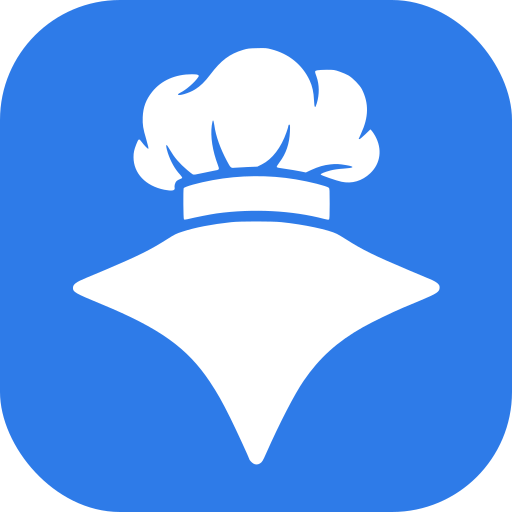
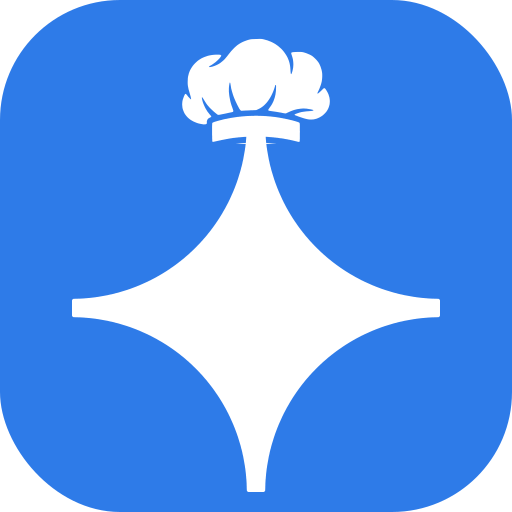
Mark v2 (spark wearing the hat), client name on Me and Home, Home camera goes straight to the group photo, biscuits in the demo seed

diff --git a/src/components/Mark.tsx b/src/components/Mark.tsx
@@ -1,7 +1,7 @@
 export const APP_NAME = "Chef Mealan";
 export const CHEF_NAME = "Mealan";
 export const COACH_NAME = "Milan";
-const D = "M31.66 57.94C31.45 57.81 31.16 57.49 31.16 57.39C31.16 57.29 29.50 53.68 28.80 52.27C27.79 50.23 27.17 49.13 26.25 47.75C23.43 43.50 19.98 41.03 12.63 38.00C9.39 36.66 9.12 36.50 9.12 36.00C9.12 35.54 9.49 35.26 10.83 34.71C11.16 34.57 12.24 34.12 13.24 33.70C17.37 31.94 18.75 31.26 20.94 29.87C21.81 29.31 22.05 29.19 22.82 28.95C24.37 28.44 26.42 28.04 28.92 27.77C29.99 27.65 34.05 27.65 35.18 27.77C37.99 28.06 41.10 28.72 42.12 29.24C42.30 29.33 42.82 29.64 43.26 29.92C45.31 31.23 46.73 31.93 51.20 33.82C52.51 34.37 53.77 34.90 54.01 35.00C54.25 35.10 54.55 35.29 54.70 35.42C54.91 35.63 54.95 35.71 54.95 35.94C54.95 36.47 54.63 36.69 52.57 37.55C52.13 37.74 51.18 38.13 50.46 38.43C49.00 39.05 46.62 40.20 45.40 40.88C42.18 42.69 39.92 44.73 37.95 47.61C36.83 49.24 34.93 52.92 33.28 56.65C32.85 57.63 32.76 57.77 32.48 57.94C32.21 58.10 31.92 58.10 31.66 57.94ZM22.99 27.42C22.91 27.34 22.89 23.72 22.96 23.53C23.03 23.34 24.82 22.84 26.57 22.52C29.95 21.89 33.64 21.86 36.96 22.42C38.76 22.72 40.84 23.25 41.10 23.47C41.20 23.57 41.21 23.75 41.21 25.47C41.21 26.93 41.19 27.38 41.13 27.43C41.07 27.48 40.90 27.47 40.54 27.37C36.53 26.31 31.65 26.06 27.07 26.68C26.36 26.78 24.32 27.18 23.44 27.40C23.18 27.46 23.04 27.47 22.99 27.42ZM20.55 23.72C18.19 23.25 16.69 21.66 16.69 19.64C16.69 19.06 16.77 18.72 17.03 18.05C17.33 17.30 17.37 17.28 17.72 17.76C17.97 18.10 18.44 18.60 18.52 18.60C18.60 18.60 18.55 18.35 18.28 17.41C17.88 16.07 17.81 15.61 17.84 14.65C17.90 13.38 18.23 12.48 19.02 11.48C20.16 10.05 21.91 9.28 24.02 9.28C24.44 9.28 24.68 9.31 24.76 9.38C24.88 9.46 24.88 9.48 24.77 9.65C24.37 10.27 23.25 11.24 22.57 11.57C22.39 11.65 22.25 11.76 22.25 11.81C22.25 12.05 23.65 11.64 24.36 11.19C25.07 10.75 25.59 10.24 26.28 9.33C27.64 7.53 28.69 6.74 30.40 6.23C30.92 6.07 31.14 6.04 32.13 6.02C33.18 5.99 33.33 6.00 33.91 6.16C36.11 6.72 37.80 8.10 38.71 10.06C39.04 10.77 39.21 11.53 39.25 12.52C39.30 13.53 39.39 13.63 39.60 12.91C39.94 11.79 39.92 10.59 39.57 9.59C39.32 8.90 39.32 8.87 39.64 8.79C39.79 8.76 40.33 8.72 40.85 8.72C41.75 8.72 41.81 8.73 42.47 8.96C42.84 9.09 43.33 9.30 43.54 9.42C44.12 9.76 44.97 10.64 45.24 11.16C46.12 12.92 46.09 14.65 45.13 16.70C44.97 17.05 44.83 17.35 44.83 17.37C44.83 17.38 44.88 17.39 44.94 17.39C44.99 17.39 45.32 17.12 45.67 16.78L46.30 16.17L46.48 16.36C46.57 16.47 46.76 16.74 46.89 16.98C47.81 18.63 47.58 20.43 46.28 21.66C45.27 22.62 43.99 23.00 42.69 22.72C42.07 22.59 40.12 21.92 40.09 21.82C40.05 21.72 40.53 21.52 41.30 21.31C41.73 21.20 42.25 21.12 42.92 21.08C44.28 20.99 44.42 20.84 43.32 20.65C42.30 20.48 42.04 20.47 41.30 20.55C40.46 20.64 39.81 20.83 38.89 21.25L38.23 21.56L37.49 21.41C37.09 21.33 36.28 21.19 35.69 21.11C34.84 21.00 34.61 20.95 34.59 20.86C34.58 20.81 34.74 20.54 34.95 20.27C35.76 19.20 36.18 17.96 36.24 16.47C36.27 15.68 36.26 15.58 36.16 15.58C36.10 15.58 36.05 15.64 36.05 15.71C36.05 15.78 35.95 16.15 35.81 16.53C35.15 18.44 34.02 19.91 32.73 20.55L32.17 20.83L30.91 20.88C30.22 20.91 29.50 20.95 29.30 20.97C28.87 21.02 28.82 20.98 28.37 20.13C27.54 18.58 26.97 16.99 26.80 15.70C26.74 15.30 26.68 15.05 26.63 15.05C26.59 15.05 26.52 15.30 26.47 15.69C26.29 17.09 26.56 18.85 27.24 20.64C27.45 21.20 27.44 21.23 26.74 21.34C26.46 21.39 25.79 21.53 25.24 21.65C24.45 21.83 24.22 21.86 24.10 21.80C24.02 21.76 23.72 21.52 23.42 21.27C22.43 20.43 21.79 19.69 21.24 18.73C21.05 18.40 20.87 18.13 20.83 18.13C20.72 18.13 20.78 18.46 20.98 19.12C21.33 20.18 21.86 21.14 22.51 21.83C22.67 22.00 22.79 22.19 22.77 22.24C22.75 22.28 22.61 22.36 22.47 22.40C22.33 22.45 22.14 22.56 22.06 22.64C21.88 22.83 21.77 23.25 21.83 23.47C21.91 23.83 21.50 23.91 20.55 23.72Z";
+const D = "M25.86 15.38 L25.85 15.20 L25.91 14.98 L26.03 14.82 L26.22 14.71 L26.42 14.61 L26.35 14.46 L26.19 14.28 L26.07 14.12 L25.94 13.96 L25.83 13.78 L25.72 13.60 L25.62 13.41 L25.53 13.21 L25.44 13.00 L25.36 12.79 L25.27 12.47 L25.23 12.23 L25.25 12.14 L25.32 12.21 L25.47 12.44 L25.59 12.64 L25.70 12.81 L25.81 12.98 L25.93 13.14 L26.07 13.30 L26.20 13.45 L26.35 13.60 L26.52 13.76 L26.69 13.92 L26.88 14.08 L27.09 14.25 L27.21 14.34 L27.30 14.36 L27.47 14.34 L27.76 14.28 L28.06 14.22 L28.30 14.17 L28.52 14.12 L28.71 14.08 L28.92 14.04 L29.13 13.98 L29.17 13.86 L29.10 13.63 L29.02 13.40 L28.94 13.18 L28.87 12.95 L28.81 12.73 L28.76 12.51 L28.72 12.29 L28.68 12.08 L28.65 11.87 L28.63 11.66 L28.61 11.46 L28.61 11.26 L28.61 11.07 L28.62 10.88 L28.64 10.70 L28.69 10.41 L28.74 10.29 L28.79 10.40 L28.84 10.69 L28.87 10.87 L28.90 11.06 L28.95 11.25 L29.00 11.44 L29.06 11.64 L29.12 11.84 L29.19 12.04 L29.27 12.25 L29.36 12.46 L29.45 12.67 L29.55 12.88 L29.65 13.09 L29.76 13.30 L29.92 13.60 L30.05 13.78 L30.17 13.85 L30.33 13.84 L30.45 13.83 L30.64 13.82 L30.88 13.81 L31.15 13.80 L31.40 13.78 L31.61 13.78 L31.82 13.77 L32.04 13.76 L32.23 13.67 L32.42 13.58 L32.58 13.49 L32.73 13.39 L32.88 13.28 L33.03 13.15 L33.17 13.01 L33.31 12.86 L33.44 12.70 L33.57 12.52 L33.69 12.34 L33.81 12.14 L33.92 11.94 L34.02 11.73 L34.12 11.51 L34.21 11.28 L34.30 11.02 L34.37 10.79 L34.40 10.65 L34.49 10.62 L34.51 10.76 L34.50 11.15 L34.49 11.38 L34.46 11.60 L34.43 11.82 L34.38 12.03 L34.33 12.23 L34.26 12.43 L34.19 12.63 L34.10 12.82 L34.01 13.00 L33.90 13.18 L33.78 13.35 L33.63 13.56 L33.52 13.74 L33.54 13.80 L33.66 13.85 L33.92 13.89 L34.26 13.94 L34.48 13.97 L34.72 14.01 L34.94 14.05 L35.14 14.08 L35.31 14.12 L35.52 14.16 L35.73 14.18 L35.92 14.09 L36.12 14.00 L36.34 13.90 L36.55 13.82 L36.75 13.75 L36.94 13.70 L37.14 13.65 L37.34 13.62 L37.55 13.59 L37.76 13.57 L37.94 13.56 L38.11 13.57 L38.31 13.58 L38.55 13.62 L38.86 13.67 L39.10 13.73 L39.19 13.78 L39.13 13.83 L38.93 13.87 L38.58 13.90 L38.30 13.92 L38.07 13.95 L37.86 13.98 L37.67 14.01 L37.45 14.07 L37.15 14.17 L36.93 14.25 L36.82 14.32 L36.83 14.37 L36.93 14.42 L37.12 14.49 L37.35 14.58 L37.62 14.67 L37.89 14.76 L38.13 14.83 L38.33 14.88 L38.53 14.92 L38.74 14.94 L38.95 14.94 L39.16 14.93 L39.36 14.89 L39.56 14.84 L39.76 14.76 L39.95 14.67 L40.14 14.56 L40.32 14.44 L40.49 14.29 L40.65 14.13 L40.79 13.97 L40.91 13.79 L41.01 13.61 L41.09 13.42 L41.15 13.23 L41.20 13.03 L41.22 12.82 L41.23 12.62 L41.21 12.41 L41.18 12.20 L41.12 11.99 L41.05 11.77 L40.95 11.56 L40.84 11.36 L40.71 11.16 L40.60 11.02 L40.44 11.05 L40.29 11.20 L40.13 11.36 L39.91 11.56 L39.76 11.68 L39.66 11.68 L39.72 11.53 L39.85 11.26 L39.95 11.03 L40.03 10.81 L40.11 10.59 L40.17 10.38 L40.22 10.17 L40.25 9.96 L40.27 9.75 L40.28 9.55 L40.28 9.35 L40.27 9.15 L40.24 8.95 L40.20 8.75 L40.14 8.56 L40.08 8.36 L40.00 8.17 L39.91 7.97 L39.82 7.82 L39.70 7.66 L39.55 7.48 L39.38 7.31 L39.21 7.15 L39.04 7.01 L38.88 6.91 L38.72 6.83 L38.51 6.74 L38.29 6.65 L38.07 6.58 L37.90 6.53 L37.73 6.50 L37.52 6.49 L37.23 6.49 L36.96 6.50 L36.73 6.51 L36.57 6.53 L36.43 6.57 L36.40 6.69 L36.50 7.00 L36.56 7.20 L36.61 7.40 L36.64 7.61 L36.66 7.82 L36.67 8.03 L36.66 8.25 L36.64 8.47 L36.60 8.68 L36.55 8.90 L36.47 9.15 L36.40 9.28 L36.35 9.22 L36.32 8.96 L36.30 8.64 L36.28 8.40 L36.25 8.18 L36.21 7.97 L36.16 7.77 L36.10 7.58 L36.03 7.40 L35.95 7.21 L35.85 7.02 L35.74 6.84 L35.62 6.66 L35.50 6.49 L35.37 6.33 L35.23 6.17 L35.08 6.03 L34.92 5.89 L34.76 5.75 L34.59 5.63 L34.42 5.51 L34.23 5.40 L34.04 5.30 L33.85 5.21 L33.64 5.13 L33.44 5.05 L33.22 4.99 L33.01 4.93 L32.85 4.89 L32.69 4.87 L32.49 4.86 L32.23 4.87 L31.89 4.88 L31.62 4.89 L31.42 4.90 L31.25 4.93 L31.09 4.97 L30.89 5.03 L30.70 5.10 L30.51 5.17 L30.33 5.25 L30.15 5.34 L29.99 5.43 L29.82 5.54 L29.66 5.65 L29.51 5.78 L29.35 5.92 L29.20 6.07 L29.05 6.23 L28.89 6.40 L28.73 6.60 L28.57 6.80 L28.41 7.01 L28.25 7.20 L28.11 7.37 L27.96 7.52 L27.81 7.65 L27.66 7.77 L27.51 7.89 L27.33 8.00 L27.10 8.12 L26.84 8.23 L26.58 8.32 L26.36 8.37 L26.19 8.39 L26.11 8.36 L26.21 8.25 L26.40 8.15 L26.57 8.04 L26.75 7.91 L26.94 7.77 L27.12 7.61 L27.29 7.45 L27.44 7.29 L27.56 7.14 L27.67 6.96 L27.57 6.86 L27.37 6.83 L27.09 6.83 L26.85 6.84 L26.62 6.86 L26.40 6.89 L26.18 6.93 L25.97 6.98 L25.77 7.05 L25.57 7.12 L25.38 7.20 L25.19 7.29 L25.01 7.40 L24.84 7.51 L24.68 7.63 L24.53 7.77 L24.38 7.91 L24.24 8.06 L24.10 8.23 L23.97 8.42 L23.86 8.60 L23.76 8.78 L23.68 8.97 L23.61 9.16 L23.56 9.36 L23.51 9.56 L23.48 9.77 L23.47 10.00 L23.46 10.22 L23.46 10.41 L23.47 10.59 L23.49 10.76 L23.53 10.95 L23.57 11.16 L23.64 11.40 L23.72 11.68 L23.83 12.07 L23.88 12.30 L23.89 12.41 L23.84 12.41 L23.71 12.28 L23.53 12.09 L23.37 11.88 L23.23 11.73 L23.13 11.76 L23.01 12.00 L22.91 12.27 L22.84 12.48 L22.80 12.67 L22.78 12.87 L22.77 13.08 L22.79 13.29 L22.81 13.49 L22.86 13.68 L22.93 13.87 L23.01 14.06 L23.10 14.23 L23.22 14.40 L23.34 14.55 L23.48 14.70 L23.64 14.84 L23.81 14.97 L23.99 15.08 L24.19 15.19 L24.40 15.28 L24.62 15.37 L24.85 15.44 L25.09 15.49 L25.44 15.55 L25.68 15.54 L25.82 15.49 L25.86 15.38Z M26.87 17.69 L26.92 17.68 L26.97 17.66 L27.03 17.65 L27.10 17.64 L27.16 17.62 L27.23 17.61 L27.30 17.59 L27.37 17.58 L27.44 17.56 L27.52 17.55 L27.59 17.53 L27.67 17.51 L27.74 17.50 L27.82 17.48 L27.90 17.47 L27.97 17.45 L28.05 17.44 L28.13 17.42 L28.20 17.41 L28.28 17.39 L28.35 17.38 L28.42 17.37 L28.49 17.35 L28.56 17.34 L28.62 17.33 L28.68 17.32 L28.74 17.31 L28.80 17.30 L28.85 17.29 L28.90 17.28 L28.95 17.28 L28.99 17.27 L29.05 17.26 L29.12 17.25 L29.19 17.24 L29.26 17.23 L29.32 17.23 L29.39 17.22 L29.46 17.21 L29.53 17.20 L29.60 17.20 L29.67 17.19 L29.74 17.18 L29.80 17.17 L29.87 17.17 L29.94 17.16 L30.01 17.16 L30.08 17.15 L30.15 17.14 L30.22 17.14 L30.29 17.13 L30.35 17.13 L30.42 17.12 L30.49 17.12 L30.56 17.11 L30.63 17.11 L30.70 17.11 L30.77 17.10 L30.79 17.10 L30.78 17.21 L30.77 17.38 L30.75 17.56 L30.74 17.73 L30.72 17.89 L30.66 17.89 L30.50 17.89 L30.35 17.90 L30.23 17.91 L30.13 17.92 L29.94 17.94 L29.73 17.97 L29.53 17.99 L29.46 18.00 L30.71 18.00 L30.70 18.07 L30.68 18.24 L30.66 18.41 L30.63 18.58 L30.61 18.75 L30.58 18.92 L30.55 19.09 L30.52 19.26 L30.49 19.42 L30.46 19.59 L30.43 19.76 L30.40 19.93 L30.36 20.10 L30.32 20.27 L30.29 20.43 L30.25 20.60 L30.21 20.77 L30.16 20.93 L30.12 21.10 L30.08 21.26 L30.03 21.43 L29.98 21.60 L29.93 21.76 L29.88 21.92 L29.83 22.09 L29.78 22.25 L29.73 22.41 L29.67 22.58 L29.62 22.74 L29.56 22.90 L29.50 23.06 L29.44 23.22 L29.38 23.38 L29.32 23.54 L29.25 23.70 L29.19 23.86 L29.12 24.02 L29.05 24.18 L28.98 24.33 L28.91 24.49 L28.84 24.65 L28.77 24.80 L28.70 24.96 L28.62 25.11 L28.55 25.27 L28.47 25.42 L28.39 25.57 L28.31 25.72 L28.23 25.87 L28.15 26.03 L28.06 26.18 L27.98 26.32 L27.89 26.47 L27.81 26.62 L27.72 26.77 L27.63 26.92 L27.54 27.06 L27.45 27.21 L27.36 27.35 L27.26 27.50 L27.17 27.64 L27.07 27.78 L26.98 27.92 L26.88 28.06 L26.78 28.20 L26.68 28.34 L26.58 28.48 L26.47 28.62 L26.37 28.76 L26.27 28.89 L26.16 29.03 L26.05 29.16 L25.95 29.29 L25.84 29.43 L25.73 29.56 L25.62 29.69 L25.50 29.82 L25.39 29.95 L25.28 30.08 L25.16 30.20 L25.05 30.33 L24.93 30.46 L24.81 30.58 L24.69 30.70 L24.57 30.83 L24.45 30.95 L24.33 31.07 L24.21 31.19 L24.08 31.31 L23.96 31.43 L23.83 31.54 L23.71 31.66 L23.58 31.78 L23.45 31.89 L23.32 32.00 L23.19 32.11 L23.06 32.23 L22.93 32.34 L22.80 32.44 L22.66 32.55 L22.53 32.66 L22.39 32.76 L22.26 32.87 L22.12 32.97 L21.98 33.08 L21.84 33.18 L21.70 33.28 L21.56 33.38 L21.42 33.47 L21.28 33.57 L21.14 33.67 L21.00 33.76 L20.85 33.86 L20.71 33.95 L20.56 34.04 L20.42 34.13 L20.27 34.22 L20.12 34.31 L19.98 34.39 L19.83 34.48 L19.68 34.56 L19.53 34.65 L19.38 34.73 L19.23 34.81 L19.07 34.89 L18.92 34.97 L18.77 35.05 L18.61 35.12 L18.46 35.20 L18.30 35.27 L18.15 35.34 L17.99 35.41 L17.84 35.48 L17.68 35.55 L17.52 35.62 L17.36 35.69 L17.20 35.75 L17.04 35.82 L16.88 35.88 L16.72 35.94 L16.56 36.00 L16.40 36.06 L16.24 36.12 L16.08 36.17 L15.92 36.23 L15.75 36.28 L15.59 36.33 L15.43 36.38 L15.26 36.43 L15.10 36.48 L14.93 36.53 L14.77 36.58 L14.60 36.62 L14.43 36.66 L14.27 36.71 L14.10 36.75 L13.93 36.79 L13.77 36.82 L13.60 36.86 L13.43 36.90 L13.26 36.93 L13.10 36.96 L12.93 36.99 L12.76 37.02 L12.59 37.05 L12.42 37.08 L12.25 37.11 L12.08 37.13 L11.91 37.16 L11.74 37.18 L11.57 37.20 L11.40 37.22 L11.23 37.24 L11.06 37.25 L10.89 37.27 L10.72 37.28 L10.54 37.30 L10.37 37.31 L10.20 37.32 L10.03 37.33 L9.86 37.33 L9.69 37.34 L9.52 37.34 L9.34 37.35 L9.25 37.35 L9.22 37.35 L9.20 37.35 L9.18 37.36 L9.15 37.37 L9.13 37.38 L9.11 37.39 L9.09 37.41 L9.07 37.42 L9.06 37.44 L9.04 37.46 L9.03 37.48 L9.02 37.50 L9.01 37.53 L9.00 37.55 L9.00 37.57 L9.00 37.60 L9.00 39.40 L9.00 39.43 L9.00 39.45 L9.01 39.47 L9.02 39.50 L9.03 39.52 L9.04 39.54 L9.06 39.56 L9.07 39.58 L9.09 39.59 L9.11 39.61 L9.13 39.62 L9.15 39.63 L9.18 39.64 L9.20 39.65 L9.22 39.65 L9.25 39.65 L9.34 39.65 L9.51 39.66 L9.69 39.66 L9.86 39.67 L10.03 39.67 L10.20 39.68 L10.37 39.69 L10.54 39.70 L10.71 39.72 L10.88 39.73 L11.06 39.75 L11.23 39.76 L11.40 39.78 L11.57 39.80 L11.74 39.82 L11.91 39.84 L12.08 39.87 L12.25 39.89 L12.42 39.92 L12.59 39.95 L12.76 39.98 L12.92 40.01 L13.09 40.04 L13.26 40.07 L13.43 40.10 L13.60 40.14 L13.77 40.18 L13.93 40.21 L14.10 40.25 L14.27 40.29 L14.43 40.34 L14.60 40.38 L14.76 40.42 L14.93 40.47 L15.10 40.52 L15.26 40.57 L15.42 40.62 L15.59 40.67 L15.75 40.72 L15.91 40.77 L16.08 40.83 L16.24 40.88 L16.40 40.94 L16.56 41.00 L16.72 41.06 L16.88 41.12 L17.04 41.18 L17.20 41.25 L17.36 41.31 L17.52 41.38 L17.68 41.45 L17.83 41.52 L17.99 41.59 L18.15 41.66 L18.30 41.73 L18.46 41.80 L18.61 41.88 L18.77 41.95 L18.92 42.03 L19.07 42.11 L19.22 42.19 L19.37 42.27 L19.53 42.35 L19.68 42.44 L19.82 42.52 L19.97 42.61 L20.12 42.69 L20.27 42.78 L20.42 42.87 L20.56 42.96 L20.71 43.05 L20.85 43.14 L21.00 43.24 L21.14 43.33 L21.28 43.43 L21.42 43.52 L21.56 43.62 L21.70 43.72 L21.84 43.82 L21.98 43.92 L22.12 44.03 L22.26 44.13 L22.39 44.23 L22.53 44.34 L22.66 44.45 L22.79 44.55 L22.93 44.66 L23.06 44.77 L23.19 44.88 L23.32 45.00 L23.45 45.11 L23.58 45.22 L23.70 45.34 L23.83 45.45 L23.96 45.57 L24.08 45.69 L24.20 45.81 L24.33 45.93 L24.45 46.05 L24.57 46.17 L24.69 46.29 L24.81 46.42 L24.93 46.54 L25.04 46.67 L25.16 46.79 L25.28 46.92 L25.39 47.05 L25.50 47.18 L25.61 47.31 L25.73 47.44 L25.84 47.57 L25.94 47.70 L26.05 47.84 L26.16 47.97 L26.26 48.11 L26.37 48.24 L26.47 48.38 L26.58 48.52 L26.68 48.66 L26.78 48.80 L26.88 48.94 L26.97 49.08 L27.07 49.22 L27.17 49.36 L27.26 49.50 L27.36 49.65 L27.45 49.79 L27.54 49.94 L27.63 50.08 L27.72 50.23 L27.81 50.38 L27.89 50.52 L27.98 50.67 L28.06 50.82 L28.15 50.97 L28.23 51.12 L28.31 51.27 L28.39 51.43 L28.47 51.58 L28.55 51.73 L28.62 51.89 L28.70 52.04 L28.77 52.20 L28.84 52.35 L28.91 52.51 L28.98 52.66 L29.05 52.82 L29.12 52.98 L29.19 53.14 L29.25 53.30 L29.32 53.46 L29.38 53.62 L29.44 53.78 L29.50 53.94 L29.56 54.10 L29.62 54.26 L29.67 54.42 L29.73 54.58 L29.78 54.75 L29.83 54.91 L29.88 55.07 L29.93 55.24 L29.98 55.40 L30.03 55.57 L30.08 55.73 L30.12 55.90 L30.16 56.07 L30.21 56.23 L30.25 56.40 L30.29 56.57 L30.32 56.73 L30.36 56.90 L30.40 57.07 L30.43 57.24 L30.46 57.40 L30.49 57.57 L30.52 57.74 L30.55 57.91 L30.58 58.08 L30.61 58.25 L30.63 58.42 L30.66 58.59 L30.68 58.76 L30.70 58.93 L30.72 59.10 L30.74 59.27 L30.75 59.44 L30.77 59.61 L30.78 59.78 L30.80 59.96 L30.81 60.13 L30.82 60.30 L30.83 60.47 L30.83 60.64 L30.84 60.81 L30.84 60.98 L30.85 61.16 L30.85 61.25 L30.85 61.28 L30.85 61.30 L30.86 61.32 L30.87 61.35 L30.88 61.37 L30.89 61.39 L30.91 61.41 L30.92 61.43 L30.94 61.44 L30.96 61.46 L30.98 61.47 L31.00 61.48 L31.03 61.49 L31.05 61.50 L31.07 61.50 L31.10 61.50 L32.90 61.50 L32.93 61.50 L32.95 61.50 L32.97 61.49 L33.00 61.48 L33.02 61.47 L33.04 61.46 L33.06 61.44 L33.08 61.43 L33.09 61.41 L33.11 61.39 L33.12 61.37 L33.13 61.35 L33.14 61.32 L33.15 61.30 L33.15 61.28 L33.15 61.25 L33.15 61.16 L33.16 60.99 L33.16 60.81 L33.17 60.64 L33.17 60.47 L33.18 60.30 L33.19 60.13 L33.20 59.96 L33.22 59.79 L33.23 59.62 L33.25 59.44 L33.26 59.27 L33.28 59.10 L33.30 58.93 L33.32 58.76 L33.34 58.59 L33.37 58.42 L33.39 58.25 L33.42 58.08 L33.45 57.91 L33.48 57.74 L33.51 57.58 L33.54 57.41 L33.57 57.24 L33.60 57.07 L33.64 56.90 L33.68 56.73 L33.71 56.57 L33.75 56.40 L33.79 56.23 L33.84 56.07 L33.88 55.90 L33.92 55.74 L33.97 55.57 L34.02 55.40 L34.07 55.24 L34.12 55.08 L34.17 54.91 L34.22 54.75 L34.27 54.59 L34.33 54.42 L34.38 54.26 L34.44 54.10 L34.50 53.94 L34.56 53.78 L34.62 53.62 L34.68 53.46 L34.75 53.30 L34.81 53.14 L34.88 52.98 L34.95 52.82 L35.02 52.67 L35.09 52.51 L35.16 52.35 L35.23 52.20 L35.30 52.04 L35.38 51.89 L35.45 51.73 L35.53 51.58 L35.61 51.43 L35.69 51.28 L35.77 51.13 L35.85 50.97 L35.94 50.82 L36.02 50.68 L36.11 50.53 L36.19 50.38 L36.28 50.23 L36.37 50.08 L36.46 49.94 L36.55 49.79 L36.64 49.65 L36.74 49.50 L36.83 49.36 L36.93 49.22 L37.02 49.08 L37.12 48.94 L37.22 48.80 L37.32 48.66 L37.42 48.52 L37.53 48.38 L37.63 48.24 L37.73 48.11 L37.84 47.97 L37.95 47.84 L38.05 47.71 L38.16 47.57 L38.27 47.44 L38.38 47.31 L38.50 47.18 L38.61 47.05 L38.72 46.92 L38.84 46.80 L38.95 46.67 L39.07 46.54 L39.19 46.42 L39.31 46.30 L39.43 46.17 L39.55 46.05 L39.67 45.93 L39.79 45.81 L39.92 45.69 L40.04 45.57 L40.17 45.46 L40.29 45.34 L40.42 45.22 L40.55 45.11 L40.68 45.00 L40.81 44.89 L40.94 44.77 L41.07 44.66 L41.20 44.56 L41.34 44.45 L41.47 44.34 L41.61 44.24 L41.74 44.13 L41.88 44.03 L42.02 43.92 L42.16 43.82 L42.30 43.72 L42.44 43.62 L42.58 43.53 L42.72 43.43 L42.86 43.33 L43.00 43.24 L43.15 43.14 L43.29 43.05 L43.44 42.96 L43.58 42.87 L43.73 42.78 L43.88 42.69 L44.02 42.61 L44.17 42.52 L44.32 42.44 L44.47 42.35 L44.62 42.27 L44.77 42.19 L44.93 42.11 L45.08 42.03 L45.23 41.95 L45.39 41.88 L45.54 41.80 L45.70 41.73 L45.85 41.66 L46.01 41.59 L46.16 41.52 L46.32 41.45 L46.48 41.38 L46.64 41.31 L46.80 41.25 L46.96 41.18 L47.12 41.12 L47.28 41.06 L47.44 41.00 L47.60 40.94 L47.76 40.88 L47.92 40.83 L48.08 40.77 L48.25 40.72 L48.41 40.67 L48.57 40.62 L48.74 40.57 L48.90 40.52 L49.07 40.47 L49.23 40.42 L49.40 40.38 L49.57 40.34 L49.73 40.29 L49.90 40.25 L50.07 40.21 L50.23 40.18 L50.40 40.14 L50.57 40.10 L50.74 40.07 L50.90 40.04 L51.07 40.01 L51.24 39.98 L51.41 39.95 L51.58 39.92 L51.75 39.89 L51.92 39.87 L52.09 39.84 L52.26 39.82 L52.43 39.80 L52.60 39.78 L52.77 39.76 L52.94 39.75 L53.11 39.73 L53.28 39.72 L53.46 39.70 L53.63 39.69 L53.80 39.68 L53.97 39.67 L54.14 39.67 L54.31 39.66 L54.48 39.66 L54.66 39.65 L54.75 39.65 L54.78 39.65 L54.80 39.65 L54.82 39.64 L54.85 39.63 L54.87 39.62 L54.89 39.61 L54.91 39.59 L54.93 39.58 L54.94 39.56 L54.96 39.54 L54.97 39.52 L54.98 39.50 L54.99 39.47 L55.00 39.45 L55.00 39.43 L55.00 39.40 L55.00 37.60 L55.00 37.57 L55.00 37.55 L54.99 37.53 L54.98 37.50 L54.97 37.48 L54.96 37.46 L54.94 37.44 L54.93 37.42 L54.91 37.41 L54.89 37.39 L54.87 37.38 L54.85 37.37 L54.82 37.36 L54.80 37.35 L54.78 37.35 L54.75 37.35 L54.66 37.35 L54.49 37.34 L54.31 37.34 L54.14 37.33 L53.97 37.33 L53.80 37.32 L53.63 37.31 L53.46 37.30 L53.29 37.28 L53.12 37.27 L52.94 37.25 L52.77 37.24 L52.60 37.22 L52.43 37.20 L52.26 37.18 L52.09 37.16 L51.92 37.13 L51.75 37.11 L51.58 37.08 L51.41 37.05 L51.24 37.02 L51.08 36.99 L50.91 36.96 L50.74 36.93 L50.57 36.90 L50.40 36.86 L50.23 36.82 L50.07 36.79 L49.90 36.75 L49.73 36.71 L49.57 36.66 L49.40 36.62 L49.24 36.58 L49.07 36.53 L48.90 36.48 L48.74 36.43 L48.58 36.38 L48.41 36.33 L48.25 36.28 L48.09 36.23 L47.92 36.17 L47.76 36.12 L47.60 36.06 L47.44 36.00 L47.28 35.94 L47.12 35.88 L46.96 35.82 L46.80 35.75 L46.64 35.69 L46.48 35.62 L46.32 35.55 L46.17 35.48 L46.01 35.41 L45.85 35.34 L45.70 35.27 L45.54 35.20 L45.39 35.12 L45.23 35.05 L45.08 34.97 L44.93 34.89 L44.78 34.81 L44.63 34.73 L44.47 34.65 L44.32 34.56 L44.18 34.48 L44.03 34.39 L43.88 34.31 L43.73 34.22 L43.58 34.13 L43.44 34.04 L43.29 33.95 L43.15 33.86 L43.00 33.76 L42.86 33.67 L42.72 33.57 L42.58 33.48 L42.44 33.38 L42.30 33.28 L42.16 33.18 L42.02 33.08 L41.88 32.97 L41.74 32.87 L41.61 32.77 L41.47 32.66 L41.34 32.55 L41.21 32.45 L41.07 32.34 L40.94 32.23 L40.81 32.12 L40.68 32.00 L40.55 31.89 L40.42 31.78 L40.30 31.66 L40.17 31.55 L40.04 31.43 L39.92 31.31 L39.80 31.19 L39.67 31.07 L39.55 30.95 L39.43 30.83 L39.31 30.71 L39.19 30.58 L39.07 30.46 L38.96 30.33 L38.84 30.21 L38.72 30.08 L38.61 29.95 L38.50 29.82 L38.39 29.69 L38.27 29.56 L38.16 29.43 L38.06 29.30 L37.95 29.16 L37.84 29.03 L37.74 28.89 L37.63 28.76 L37.53 28.62 L37.42 28.48 L37.32 28.34 L37.22 28.20 L37.12 28.06 L37.03 27.92 L36.93 27.78 L36.83 27.64 L36.74 27.50 L36.64 27.35 L36.55 27.21 L36.46 27.06 L36.37 26.92 L36.28 26.77 L36.19 26.62 L36.11 26.48 L36.02 26.33 L35.94 26.18 L35.85 26.03 L35.77 25.88 L35.69 25.73 L35.61 25.57 L35.53 25.42 L35.45 25.27 L35.38 25.11 L35.30 24.96 L35.23 24.80 L35.16 24.65 L35.09 24.49 L35.02 24.34 L34.95 24.18 L34.88 24.02 L34.81 23.86 L34.75 23.70 L34.68 23.54 L34.62 23.38 L34.56 23.22 L34.50 23.06 L34.44 22.90 L34.38 22.74 L34.33 22.58 L34.27 22.42 L34.22 22.25 L34.17 22.09 L34.12 21.93 L34.07 21.76 L34.02 21.60 L33.97 21.43 L33.92 21.27 L33.88 21.10 L33.84 20.93 L33.79 20.77 L33.75 20.60 L33.71 20.43 L33.68 20.27 L33.64 20.10 L33.60 19.93 L33.57 19.76 L33.54 19.60 L33.51 19.43 L33.48 19.26 L33.45 19.09 L33.42 18.92 L33.39 18.75 L33.37 18.58 L33.34 18.41 L33.32 18.24 L33.30 18.07 L33.29 18.00 L34.53 18.00 L34.41 17.98 L34.20 17.96 L33.99 17.94 L33.83 17.92 L33.71 17.91 L33.58 17.90 L33.43 17.89 L33.28 17.89 L33.26 17.73 L33.25 17.56 L33.23 17.39 L33.22 17.22 L33.21 17.10 L33.24 17.10 L33.31 17.10 L33.38 17.11 L33.45 17.11 L33.51 17.12 L33.58 17.12 L33.65 17.13 L33.72 17.13 L33.78 17.14 L33.85 17.14 L33.92 17.15 L33.99 17.15 L34.05 17.16 L34.12 17.17 L34.19 17.17 L34.25 17.18 L34.32 17.19 L34.39 17.19 L34.45 17.20 L34.52 17.21 L34.58 17.22 L34.65 17.22 L34.72 17.23 L34.78 17.24 L34.85 17.25 L34.91 17.26 L34.98 17.27 L35.04 17.28 L35.11 17.28 L35.17 17.29 L35.24 17.30 L35.30 17.31 L35.37 17.32 L35.43 17.33 L35.50 17.34 L35.56 17.36 L35.62 17.37 L35.69 17.38 L35.75 17.39 L35.81 17.40 L35.88 17.41 L35.94 17.42 L36.00 17.44 L36.07 17.45 L36.13 17.46 L36.19 17.47 L36.25 17.49 L36.32 17.50 L36.38 17.51 L36.44 17.53 L36.50 17.54 L36.56 17.55 L36.62 17.57 L36.68 17.58 L36.75 17.60 L36.81 17.61 L36.87 17.63 L36.93 17.64 L36.99 17.66 L37.05 17.67 L37.13 17.69 L37.23 17.72 L37.31 17.73 L37.37 17.74 L37.41 17.73 L37.44 17.72 L37.44 17.71 L37.45 17.70 L37.45 17.68 L37.46 17.66 L37.46 17.63 L37.47 17.59 L37.47 17.55 L37.47 17.50 L37.47 17.44 L37.48 17.37 L37.48 17.30 L37.48 17.21 L37.48 17.12 L37.48 17.01 L37.48 16.90 L37.48 16.77 L37.48 16.64 L37.49 16.48 L37.48 16.33 L37.48 16.18 L37.48 16.06 L37.48 15.95 L37.48 15.85 L37.48 15.76 L37.48 15.68 L37.48 15.62 L37.47 15.56 L37.47 15.51 L37.47 15.47 L37.46 15.44 L37.46 15.41 L37.45 15.39 L37.44 15.38 L37.43 15.36 L37.43 15.35 L37.42 15.34 L37.40 15.33 L37.38 15.32 L37.36 15.30 L37.33 15.29 L37.30 15.28 L37.26 15.26 L37.22 15.25 L37.18 15.23 L37.13 15.22 L37.08 15.20 L37.03 15.19 L36.97 15.17 L36.92 15.15 L36.85 15.13 L36.79 15.12 L36.72 15.10 L36.66 15.08 L36.59 15.06 L36.51 15.04 L36.44 15.02 L36.36 15.01 L36.29 14.99 L36.21 14.97 L36.13 14.95 L36.05 14.93 L35.96 14.91 L35.88 14.89 L35.80 14.88 L35.71 14.86 L35.62 14.84 L35.54 14.82 L35.45 14.81 L35.37 14.79 L35.28 14.77 L35.19 14.76 L35.11 14.74 L35.02 14.73 L34.94 14.71 L34.87 14.70 L34.81 14.69 L34.74 14.68 L34.68 14.67 L34.62 14.66 L34.55 14.65 L34.49 14.64 L34.42 14.63 L34.36 14.62 L34.29 14.62 L34.22 14.61 L34.16 14.60 L34.09 14.59 L34.03 14.59 L33.96 14.58 L33.90 14.57 L33.83 14.56 L33.76 14.56 L33.70 14.55 L33.63 14.55 L33.56 14.54 L33.50 14.53 L33.43 14.53 L33.36 14.52 L33.30 14.52 L33.23 14.51 L33.16 14.51 L33.10 14.51 L33.03 14.50 L32.96 14.50 L32.90 14.49 L32.83 14.49 L32.76 14.49 L32.69 14.49 L32.63 14.48 L32.56 14.48 L32.49 14.48 L32.42 14.48 L32.36 14.48 L32.29 14.48 L32.22 14.47 L32.15 14.47 L32.08 14.47 L32.02 14.47 L31.95 14.47 L31.88 14.47 L31.81 14.47 L31.75 14.48 L31.68 14.48 L31.61 14.48 L31.54 14.48 L31.47 14.48 L31.41 14.48 L31.34 14.49 L31.27 14.49 L31.20 14.49 L31.13 14.49 L31.07 14.50 L31.00 14.50 L30.93 14.50 L30.86 14.51 L30.80 14.51 L30.73 14.52 L30.66 14.52 L30.59 14.53 L30.53 14.53 L30.46 14.54 L30.39 14.54 L30.32 14.55 L30.26 14.56 L30.19 14.56 L30.12 14.57 L30.05 14.58 L29.99 14.58 L29.92 14.59 L29.85 14.60 L29.79 14.61 L29.72 14.61 L29.65 14.62 L29.59 14.63 L29.52 14.64 L29.45 14.65 L29.39 14.66 L29.32 14.67 L29.25 14.68 L29.19 14.69 L29.12 14.70 L29.06 14.71 L28.99 14.72 L28.93 14.73 L28.86 14.74 L28.79 14.75 L28.73 14.77 L28.65 14.78 L28.55 14.80 L28.46 14.82 L28.37 14.84 L28.28 14.86 L28.18 14.87 L28.09 14.89 L28.00 14.91 L27.91 14.93 L27.83 14.95 L27.74 14.98 L27.65 15.00 L27.57 15.02 L27.49 15.04 L27.41 15.06 L27.34 15.08 L27.26 15.10 L27.19 15.12 L27.12 15.14 L27.06 15.16 L26.99 15.18 L26.93 15.20 L26.88 15.21 L26.82 15.23 L26.78 15.25 L26.73 15.27 L26.69 15.28 L26.65 15.30 L26.62 15.31 L26.60 15.33 L26.57 15.34 L26.56 15.35 L26.54 15.37 L26.54 15.38 L26.53 15.39 L26.53 15.41 L26.53 15.44 L26.52 15.49 L26.52 15.53 L26.52 15.59 L26.52 15.65 L26.51 15.72 L26.51 15.79 L26.51 15.87 L26.51 15.96 L26.51 16.04 L26.51 16.13 L26.51 16.23 L26.51 16.32 L26.51 16.42 L26.51 16.51 L26.51 16.61 L26.51 16.71 L26.51 16.80 L26.51 16.90 L26.52 16.99 L26.52 17.08 L26.52 17.16 L26.52 17.24 L26.52 17.32 L26.53 17.39 L26.53 17.46 L26.53 17.52 L26.53 17.57 L26.54 17.62 L26.54 17.66 L26.55 17.68 L26.55 17.70 L26.55 17.71 L26.58 17.73 L26.64 17.73 L26.71 17.72 L26.81 17.70 L26.87 17.69Z ";
 export function Mark({ size = 28, color = "currentColor" }: { size?: number; color?: string }) {
   return (
     <svg width={size} height={size} viewBox="0 0 64 64" aria-hidden="true" style={{ fill: color }}>

diff --git a/src/App.tsx b/src/App.tsx
@@ -22,7 +22,7 @@ import { resizeImageBase64 } from "./utils/image";
 import type { ScannerMode } from "./types";
 import { fmt, fixed } from "./ui";
 import { Mark, APP_NAME, COACH_NAME } from "./components/Mark";
-import { log, isCoach, setCoach } from "./log";
+import { log, isCoach, setCoach, getClientName, setClientName as storeClientName } from "./log";
 import { MealScreen } from "./screens/MealScreen";
 import { ChefScreen } from "./screens/ChefScreen";
 import { FoodsScreen } from "./screens/FoodsScreen";
@@ -384,6 +384,7 @@ export default function App() {
     [filter, setFilter] = useState<"all" | "high" | "mid" | "low" | "inmeal">("all"),
     [coach, setCoachState] = useState<boolean>(isCoach),
     [step, setStep] = useState<Step>("in"),
+    [clientName, setClientNameState] = useState<string>(getClientName),
     [camera, setCamera] = useState(false),
     [mode, setMode] = useState<ScannerMode>("label"),
     [busy, setBusy] = useState(""),
@@ -496,7 +497,8 @@ export default function App() {
       ],
       portion: null,
     }));
-    setTab("meal");
+    setStep("in");
+    setTab("journey");
     notify(
       "Added 100 g as a starting amount. Set the quantity you will actually use.",
     );
@@ -727,6 +729,7 @@ export default function App() {
     pdRef, matched, importRef, filter, setFilter,
     coach, setCoach: (v: boolean) => { setCoach(v); setCoachState(v); },
     step, setStep,
+    clientName, setClientName: (v: string) => { storeClientName(v); setClientNameState(v); },
     mealanCard: (
       <Mealan
         items={state.items}
@@ -755,7 +758,7 @@ export default function App() {
   return (
     <div className="app-shell">
       <header className="topbar">
-        <button className="brand" onClick={() => setTab("meal")} aria-label={APP_NAME}>
+        <button className="brand" onClick={() => setTab("home")} aria-label={APP_NAME}>
           <Mark size={30} color="var(--brand)" />
         </button>
         <h1>{tab === "home" ? APP_NAME : TITLES[tab]}</h1>
@@ -847,7 +850,8 @@ export default function App() {
             onCancel={() => setCamera(false)}
             onOpenCart={() => {
               setCamera(false);
-              setTab("meal");
+              setStep("in");
+              setTab("journey");
             }}
             cartCount={state.items.length}
           />

diff --git a/src/screens/HomeScreen.tsx b/src/screens/HomeScreen.tsx
@@ -1,11 +1,11 @@
-import { ChefHat, ScanBarcode, ArrowRight } from "lucide-react";
+import { Camera, ScanBarcode, ArrowRight } from "lucide-react";
 import { aggregate, density } from "../pilot";
 import { fmt, fixed } from "../ui";
 import { Mark, APP_NAME, COACH_NAME } from "../components/Mark";
 import type { AppApi } from "./api";
 
 export function HomeScreen(p: AppApi) {
-  const { state, setTab, setStep, pdRef } = p;
+  const { state, setTab, setStep, pdRef, setCamera, setMode, clientName } = p;
   const last = state.meals[0];
   const lastT = last ? aggregate(last.items) : null;
   return (
@@ -13,7 +13,7 @@ export function HomeScreen(p: AppApi) {
       <section className="hero">
         <Mark size={72} color="var(--brand)" />
         <h2>{APP_NAME}</h2>
-        <p>Your chef for one number. Keep the food you want, stay on plan.</p>
+        <p>{clientName ? `Hi ${clientName}. ` : ""}Your chef for one number. Keep the food you want, stay on plan.</p>
       </section>
       <section className="plan">
         <div className="plan-top"><span>Your plan</span><span>set by {COACH_NAME}</span></div>
@@ -23,8 +23,8 @@ export function HomeScreen(p: AppApi) {
           <div><b>{fmt(state.goals.protein, 0)}</b><small>g protein</small></div>
         </div>
       </section>
-      <button className="pill pill-primary pill-tall" onClick={() => { setStep("in"); setTab("journey"); }}>
-        <ChefHat size={20} /> I'm craving something
+      <button className="pill pill-primary pill-tall" onClick={() => { setStep("in"); setTab("journey"); setMode("group"); setCamera(true); }}>
+        <Camera size={20} /> I'm craving something
       </button>
       <button className="pill pill-tall" onClick={() => setTab("foods")}>
         <ScanBarcode size={19} /> Just check a food

diff --git a/src/screens/MeScreen.tsx b/src/screens/MeScreen.tsx
@@ -5,12 +5,19 @@ import { exportLog, clearLog, readLog } from "../log";
 import type { AppApi } from "./api";
 
 export function MeScreen(p: AppApi) {
-  const { state, services, exportData, importRef, setAccessOpen, setGoalsOpen, pdRef, coach, setCoach, setTab } = p;
+  const { state, services, exportData, importRef, setAccessOpen, setGoalsOpen, pdRef, coach, setCoach, setTab, clientName, setClientName } = p;
   const n = readLog().length;
   return (
     <>
       <section className="card person">
-        <span className="avatar">{COACH_NAME.slice(0, 1)}</span>
+        <span className="avatar">{(clientName || "?").slice(0, 1).toUpperCase()}</span>
+        <label className="name-field">
+          <span>Your name</span>
+          <input value={clientName} placeholder="Your name" onChange={(e) => setClientName(e.target.value)} />
+        </label>
+      </section>
+      <section className="card person">
+        <span className="avatar avatar-coach">{COACH_NAME.slice(0, 1)}</span>
         <div><b>{COACH_NAME}</b><small>your coach</small></div>
       </section>
       <section className="plan">

diff --git a/src/index.css b/src/index.css
@@ -250,3 +250,7 @@ button.dot { cursor: pointer; width: 14px; height: 14px; }
 .row-num { font-size: 19px; font-weight: 900; font-variant-numeric: tabular-nums; }
 .check.tiny { font-size: 12px; margin: 4px 0 0; }
 .bottom-nav button { display: flex; flex-direction: column; align-items: center; gap: 3px; height: 54px; font-size: 11px; }
+
+.name-field { flex: 1; margin: 0; font-size: 12px; color: var(--muted); font-weight: 700; }
+.name-field input { margin-top: 4px; padding: 9px 12px; font-size: 16px; font-weight: 700; }
+.avatar-coach { background: var(--brand); color: #fff; }

diff --git a/src/log.ts b/src/log.ts
@@ -33,3 +33,7 @@ export function exportLog() {
 const COACH = "chefmealan-coach";
 export const isCoach = () => { try { return localStorage.getItem(COACH) === "1"; } catch { return false; } };
 export const setCoach = (v: boolean) => { try { localStorage.setItem(COACH, v ? "1" : "0"); } catch {} };
+
+const CLIENT = "chefmealan-client-name";
+export const getClientName = () => { try { return localStorage.getItem(CLIENT) || ""; } catch { return ""; } };
+export const setClientName = (v: string) => { try { localStorage.setItem(CLIENT, v.trim()); } catch {} };

diff --git a/src/screens/api.ts b/src/screens/api.ts
@@ -49,6 +49,8 @@ export interface AppApi {
   matched: boolean;
   mealanCard: ReactNode;
   importRef: RefObject<HTMLInputElement | null>;
+  clientName: string;
+  setClientName: (v: string) => void;
   coach: boolean;
   setCoach: (v: boolean) => void;
   filter: "all" | "high" | "mid" | "low" | "inmeal";
